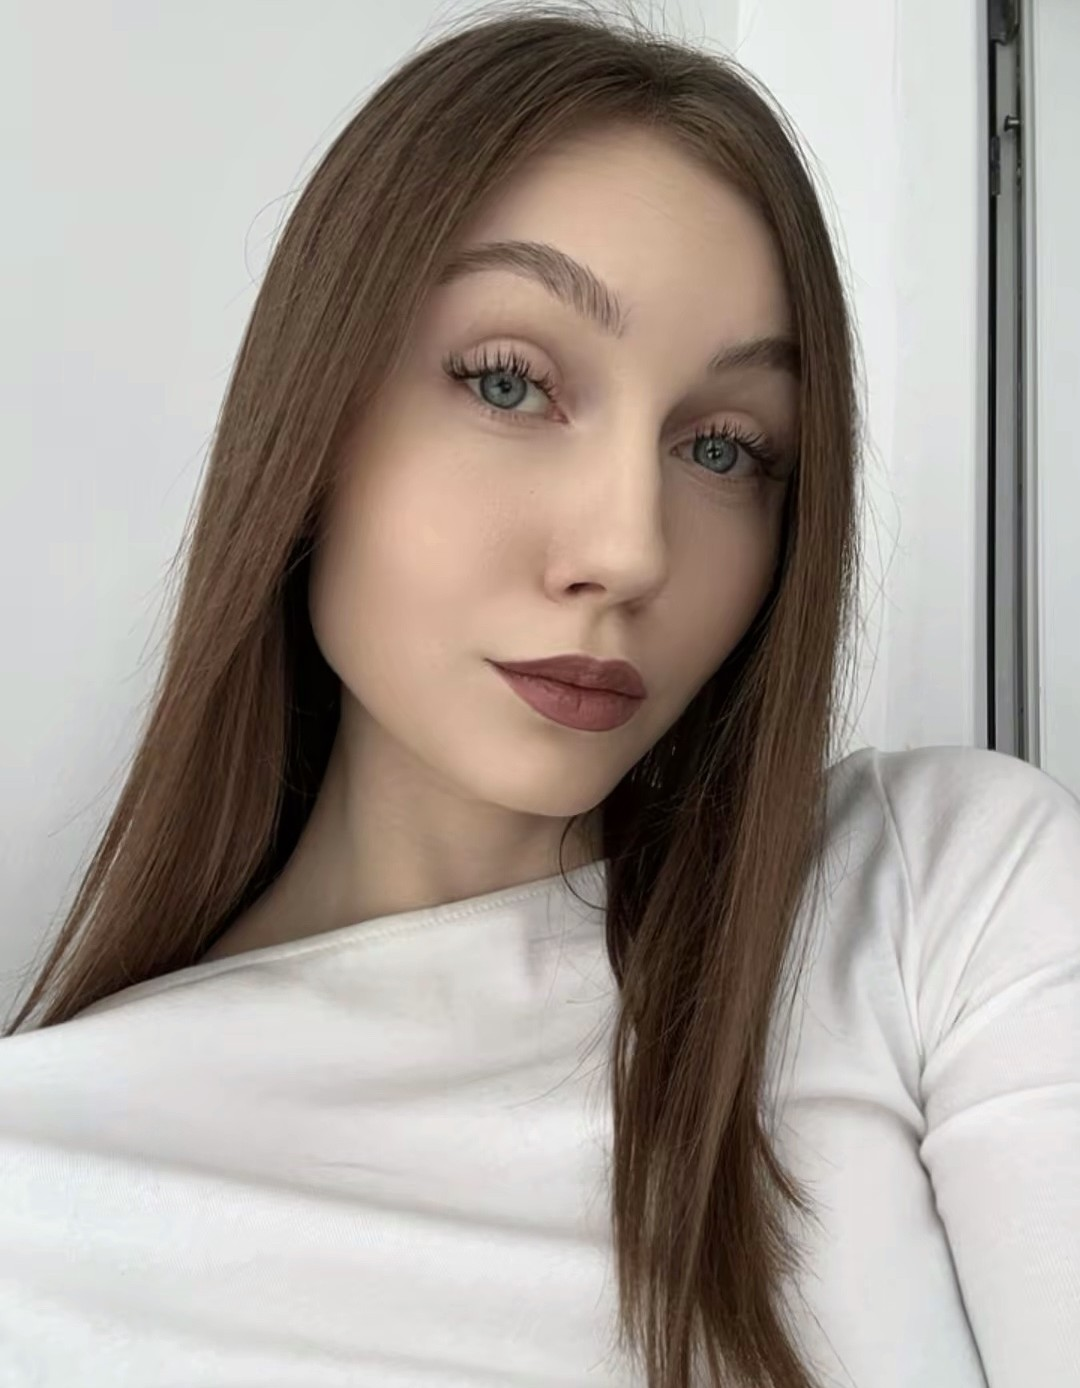
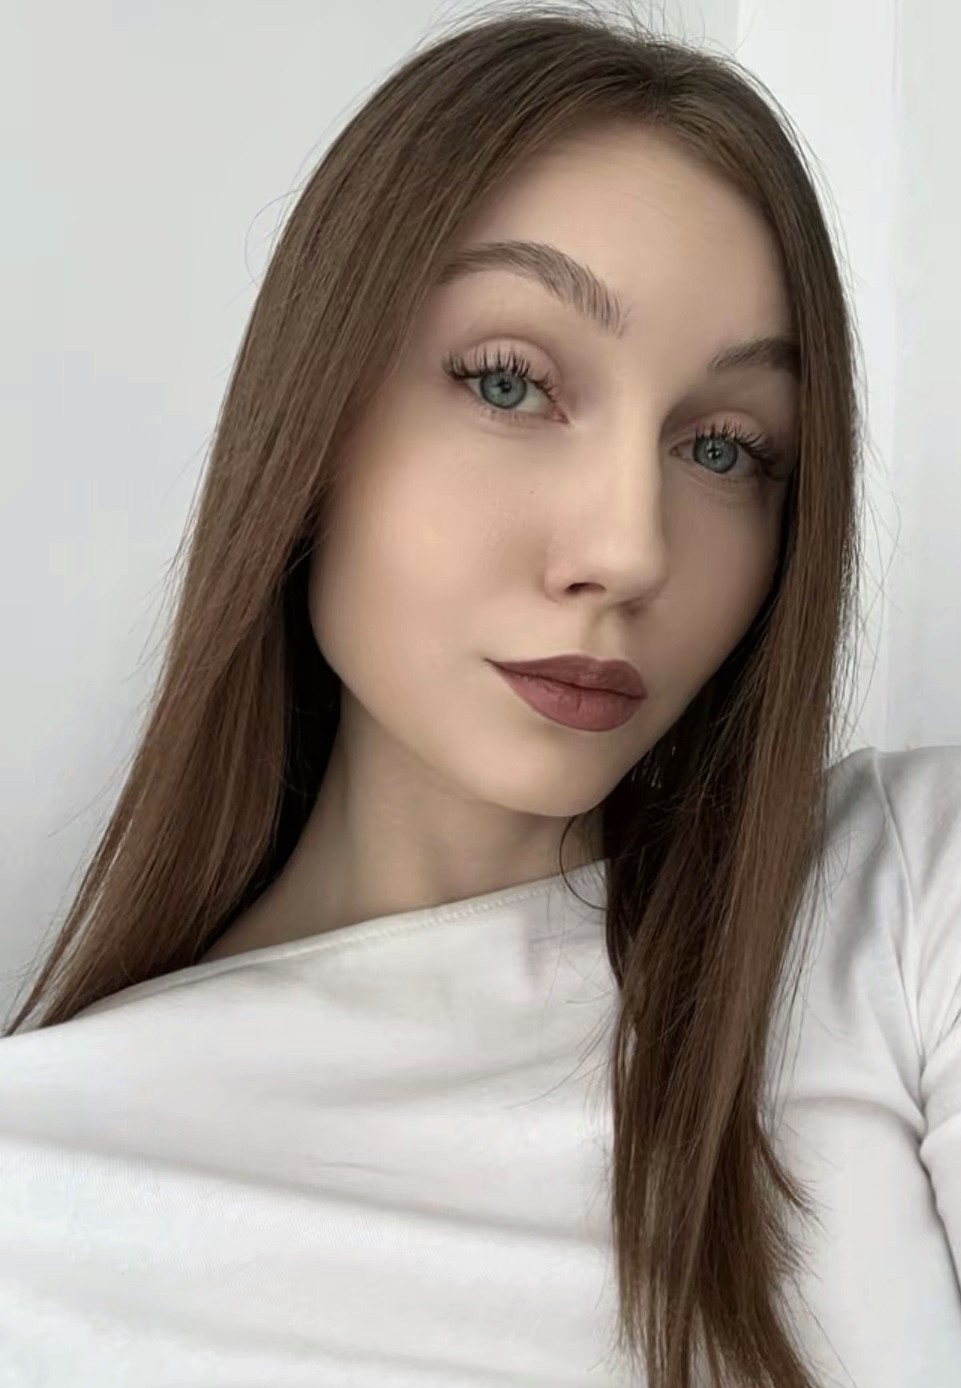
feat: add name, position and personal information to right header

diff --git a/index.html b/index.html
@@ -6,7 +6,7 @@
     <title>Anastasiya Pazniak | Junior Frontend Developer</title>
     <link rel="preconnect" href="https://fonts.googleapis.com">
     <link rel="preconnect" href="https://fonts.gstatic.com" crossorigin>
-    <link href="https://fonts.googleapis.com/css2?family=Raleway:ital,wght@0,100..900;1,100..900&display=swap" rel="stylesheet">
+    <link href="https://fonts.googleapis.com/css2?family=Quicksand:wght@300..700&family=Raleway:ital,wght@0,100..900;1,100..900&display=swap" rel="stylesheet">
     <link rel="stylesheet" href="style.css">
 </head>
 <body>
@@ -16,24 +16,37 @@
                 <div class="left-header">
                     <div class="contacts">
                         <div class="contact-item">
-                            <span class="contact-title">Phone</span>
-                            <span class="contact-value">+375 (29) 123-45-67</span>
+                            <span class="contact-title">PHONE</span>
+                            <a class="contact-value" href="tel:+375297737585">+375 (29) 773-75-85</a>
                         </div>
                         <div class="contact-item">
-                            <span class="contact-title">E-mail</span>
-                            <span class="contact-value">example@email.com</span>
+                            <span class="contact-title">E-MAIL</span>
+                            <a class="contact-value" href="mailto:pazniak.anastasiya.24@gmail.com">pazniak.anastasiya.24@gmail.com</a>
                         </div>
                         <div class="contact-item">
-                            <span class="contact-title">Telegram</span>
-                            <span class="contact-value">@yous3rnam</span>
+                            <span class="contact-title">TELEGRAM</span>
+                            <a class="contact-value" href="https://t.me/yous3rnam">@yous3rnam</a>
                         </div>
                         <div class="contact-item">
-                            <span class="contact-title">LinkedIn</span>
-                            <span class="contact-value">+375 (29) 123-45-67</span>
+                            <span class="contact-title">LINKEDIN</span>
+                            <a class="contact-value" href="https://www.linkedin.com/in/anastasiya-pazniak-04194b388">Anastasiya Pazniak</a>
                         </div>
                     </div>
                 </div>
-                <div class="right-header"></div>
+                <div class="right-header">
+                    <div class="about">
+                        <h1 class="name">Anastasiya <span class="surname">Pazniak</span></h1>
+                    </div>
+                    <div class="position">
+                        <span class="position-title">Junior Frontend Developer</span>
+                    </div>
+                    <div class="content-about">
+                        <p>Junior Frontend Developer with a strong technical background in System Administration and a passion for building modern, user-friendly web applications. Experienced in troubleshooting complex technical issues, working with Windows environments, networking,
+                            and supporting enterprise infrastructure, which has strengthened my analytical thinking and problem-solving skills. Currently focused on Frontend development, continuously improving my knowledge of HTML, CSS, JavaScript, TypeScript, React, Git, and modern development
+                            practices through personal projects and self-study. I am a fast learner, detail-oriented, and enjoy working in collaborative environments where I can contribute, grow, and deliver high-quality solutions. Seeking an opportunity to start my career as a Frontend Developer
+                            and become a valuable member of a professional engineering team.</p>
+                    </div>
+                </div>
                 <img class="photo" src="assets/img/photo.jpg" alt="Photo">
             </header>
         </div>

diff --git a/style.css b/style.css
@@ -26,27 +26,68 @@ header {
 .left-header {
     position: relative;
     float: left;
-    width: 330px;
+    width: 400px;
     height: 560px;
     background: #676768;
 }
 
 .right-header {
     float: left;
-    width: 520px;
+    width: 400px;
     height: 600px;
     background: #f5f5f5;
+    font-family: "Quicksand", sans-serif;
+    color: #4d4d4d;
 }
 
 .photo {
     position: absolute;
     left: 100px;
-    top: 50px;
-    width: 290px;
+    top: 40px;
+    width: 270px;
+    border-radius: 10px;
+    box-shadow: 0 0 20px rgba(0, 0, 0, 0.5);
 }
 
 .contacts {
     position: absolute;
     bottom: 30px;
     left: 30px;
+}
+
+.contact-title {
+    font-family: "Quicksand", sans-serif;
+    display: inline-block;
+    width: 90px;
+    color: #a1a1a1;
+}
+
+.contact-value {
+    display: inline-block;
+    font-family: "Quicksand", sans-serif;
+    color: #ffffff;
+    text-decoration: none;
+    transition: color 0.4s ease;
+}
+
+.contact-value:hover {
+    color: #000;
+}
+
+.about {
+    margin-left: 50px;
+    text-align: center;
+}
+
+.name {
+    font-weight: 400;
+}
+
+.surname {
+    font-weight: 700;
+}
+
+.position {
+    margin-left: 50px;
+    text-align: center;
 }
